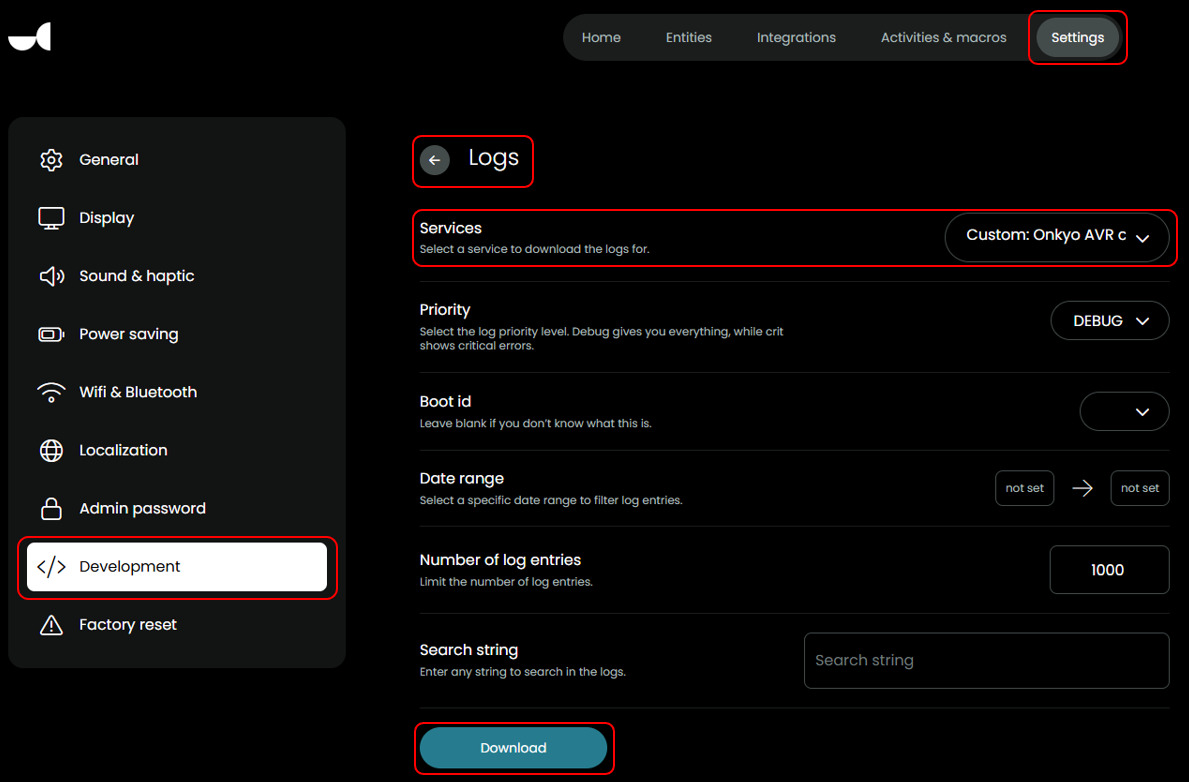
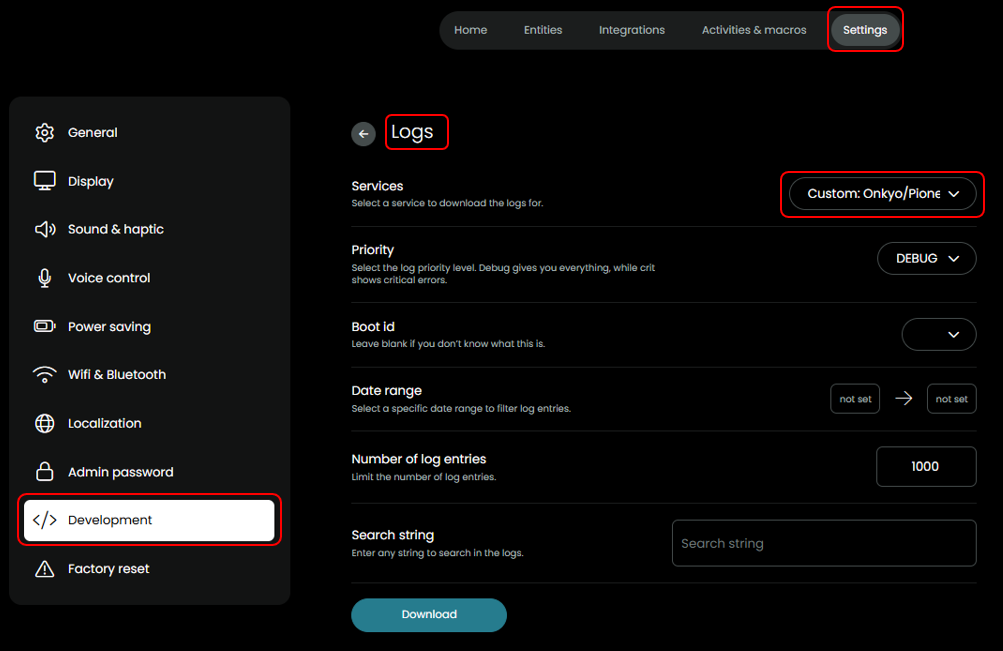
docs

diff --git a/docs/collect-logs.md b/docs/collect-logs.md
@@ -1,7 +1,7 @@
 ## Collect logs
 
 - Browse to Settings > Development > Logs
-- Services: `Custom: Onkyo AVR custom`
+- Services: `Custom: Onkyo/Pioneer/Integra AVR`
 - Download
 
 ![](../screenshots/collect-logs.png)
